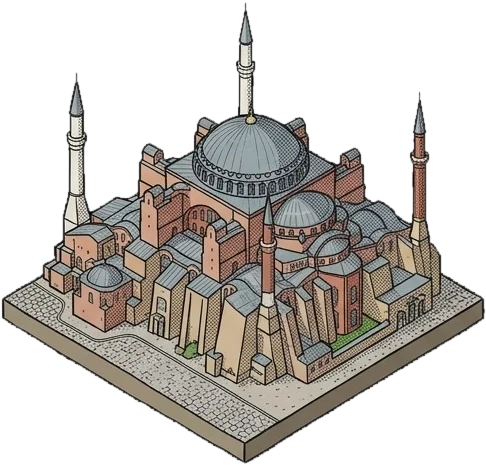
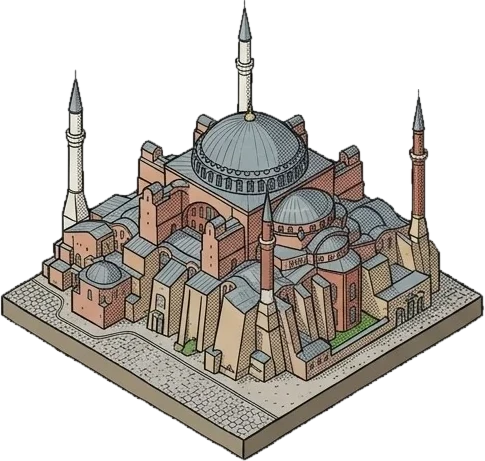
Simge yapı tabanları sağlam yöntemle yeniden ölçüldü (kırıntılar silindi, alt kenara iki doğru); saydamlaşma yanıp sönmez (hafıza + yumuşak geçiş); oyuncunun aracındaki sarı halka kaldırıldı
Claude-Session: https://claude.ai/code/session_01Kh33F5PeHx4QGU37XqQR3p

Changed region(s): [[0.0, 0.0, 0.9897, 1.0], [0.6495, 0.8807, 0.6804, 0.9111], [0.5567, 0.9414, 0.5876, 0.9718]]

diff --git a/src/render/iso.ts b/src/render/iso.ts
@@ -429,8 +429,9 @@ function drawCarSprite(e, t: number): boolean {
   ctx.beginPath();
   ctx.arc(x, y, TS * 0.46, 0, Math.PI * 2);
   ctx.fill();
-  if (e.isPlayer || G.assist === e) {
-    ctx.strokeStyle = G.assist === e ? '#ff922b' : G.role === 'taxi' ? '#ffc20e' : '#8e98ff';
+  // oyuncunun aracında halka yok (gereksiz duruyordu); yalnızca yardıma gelen ekip arkadaşı işaretlenir
+  if (G.assist === e) {
+    ctx.strokeStyle = '#ff922b';
     ctx.lineWidth = Math.max(2, TS * 0.09);
     ctx.globalAlpha = blink ? 0.35 : 1;
     ctx.beginPath();
@@ -596,6 +597,20 @@ function lmSub(m: Lm, r: number): Lm {
       if (e < err - 1e-6) ((best = n), (err = e));
     }
   return best;
+}
+/* saydamlaşma hafızası: kapatma bitince hemen geri gelmez (kısa süre bekler, yavaşça belirir);
+   böylece önündeki nokta bir girip bir çıkınca bina yanıp sönmez */
+const fadeMem = new WeakMap<object, { a: number; until: number; t: number }>();
+function fadeAlpha(o: object, hit: boolean, low: number, t: number) {
+  let st = fadeMem.get(o);
+  if (!st) fadeMem.set(o, (st = { a: 1, until: -1, t }));
+  if (hit) st.until = t + 0.9;
+  const target = t < st.until ? low : 1,
+    dt = clamp(t - st.t, 0, 0.1);
+  st.t = t;
+  st.a += (target - st.a) * Math.min(1, dt * 7);
+  if (Math.abs(st.a - target) < 0.01) st.a = target;
+  return st.a;
 }
 /** 3x3 doğrusal denklem (Cramer) */
 function solve3(M: number[][], v: number[]): number[] | null {
@@ -1313,11 +1328,9 @@ export function renderIso(t: number, dt: number) {
           objs.push([
             d,
             () => {
-              if (hide) {
-                screen();
-                ctx.globalAlpha = 0.32;
-              }
-              ctx.globalAlpha = hide ? 0.32 : 1;
+              const al = fadeAlpha(b, hide, 0.32, t);
+              if (al < 1) screen();
+              ctx.globalAlpha = al;
               drawCell(b, L.night);
               ctx.globalAlpha = 1;
             },
@@ -1335,7 +1348,7 @@ export function renderIso(t: number, dt: number) {
           objs.push([
             d,
             () => {
-              ctx.globalAlpha = hide ? 0.4 : 1;
+              ctx.globalAlpha = fadeAlpha(m, hide, 0.4, t);
               drawLandmark(m);
               ctx.globalAlpha = 1;
             },

diff --git a/scripts/olc_taban.py b/scripts/olc_taban.py
@@ -1,0 +1,72 @@
+# Simge yapı görsellerinin tabanını ölç: kırıntıları sil, alt kenar çizgisine RANSAC ile iki doğru oturt.
+# Kullanım: python3 scripts/olc_taban.py <kontrol-görselleri-klasörü> [--yaz]
+#   --yaz olmadan yalnızca kontrol sayfaları (tabanY*.png) üretir; --yaz ile görselleri temizler ve manifest’e yazar.
+import json, sys, os, random
+from PIL import Image, ImageDraw
+import numpy as np
+sys.path.insert(0, os.path.dirname(os.path.abspath(__file__))); from complib import label
+S = sys.argv[1]; WRITE = '--yaz' in sys.argv
+M = json.load(open('assets/manifest.json')); Y = M['landmarks_iso']['yapilar']
+def fitline(xs, ys, tol, it=600):
+    best=None; n=len(xs); random.seed(1)
+    for _ in range(it):
+        i,j=random.sample(range(n),2)
+        if xs[i]==xs[j]: continue
+        s=(ys[j]-ys[i])/(xs[j]-xs[i])
+        if not (0.25<abs(s)<1.0): continue
+        c=ys[i]-s*xs[i]; inl=np.abs(ys-(s*xs+c))<tol
+        # alt kenar: doğrunun altında kalan nokta az olsun (çıkıntılar üstte kalır)
+        sc=inl.sum()
+        if best is None or sc>best[0]: best=(sc,s,c,inl)
+    _,s,c,inl=best
+    A=np.vstack([xs[inl],np.ones(inl.sum())]).T; s,c=np.linalg.lstsq(A,ys[inl],rcond=None)[0]
+    inl=np.abs(ys-(s*xs+c))<tol
+    return s,c,inl
+tiles=[]
+# elle doğrulanmış eski ölçümler (uçurum, L biçimli meydan, çatı çıkıntısı: otomatik ölçüm yanılıyor)
+SKIP={'Atatürk Olimpiyat Stadı','Taksim Meydanı','Rumeli Hisarı','Topkapı Sarayı'}
+for n,L in Y.items():
+    if WRITE and n in SKIP: continue
+    im=Image.open(L['file']).convert('RGBA'); A=np.array(im)
+    s4=A[::4,::4,3]>40; lab,sizes=label(s4); big=max(sizes)
+    keep=np.zeros_like(s4)
+    for i,sz in enumerate(sizes,1):
+        if sz>=0.01*big: keep|=(lab==i)
+    k2=keep.copy()
+    for dy in (-1,0,1):
+        for dx in (-1,0,1): k2|=np.roll(np.roll(keep,dy,0),dx,1)
+    full=np.kron(k2,np.ones((4,4),bool))[:A.shape[0],:A.shape[1]]
+    A[~full,3]=0
+    a=A[:,:,3]>40; ys_,xs_=np.where(a); A=A[ys_.min():ys_.max()+1, xs_.min():xs_.max()+1]; a=A[:,:,3]>40
+    h,w=a.shape
+    cols=np.where(a.any(0))[0]
+    P=np.array([np.where(a[:,x])[0].max() for x in cols],float)
+    xb0=cols[int(np.argmax(P))]
+    tol=max(3,h*0.012)
+    # tepe noktasını bul: iki doğru, sol yarıda eğim +, sağ yarıda −
+    best=None
+    for frac in np.linspace(0.3,0.7,9):
+        xm=xs_m=cols.min()+(cols.max()-cols.min())*frac
+        Lm=cols<xm; Rm=~Lm
+        if Lm.sum()<10 or Rm.sum()<10: continue
+        sl,cl,il=fitline(cols[Lm].astype(float),P[Lm],tol); sr,cr,ir=fitline(cols[Rm].astype(float),P[Rm],tol)
+        if sl<=0 or sr>=0: continue
+        sc=il.sum()+ir.sum()
+        if best is None or sc>best[0]: best=(sc,sl,cl,il,Lm,sr,cr,ir,Rm)
+    sc,sl,cl,il,Lm,sr,cr,ir,Rm=best
+    xbx=(cr-cl)/(sl-sr); ybx=sl*xbx+cl
+    xl=cols[Lm][il].min(); xr=cols[Rm][ir].max()
+    tb=[int(xl),int(round(sl*xl+cl)),int(round(xbx)),int(round(ybx)),int(xr),int(round(sr*xr+cr))]
+    print(f"{n:34s} eski {L['taban']}  yeni {tb}  ({w}x{h}, iç {sc}/{len(cols)})")
+    if WRITE:
+        Image.fromarray(A).save(L['file'],quality=90); L['w'],L['h']=int(w),int(h); L['taban']=tb
+    bg=Image.new('RGBA',(w,h),(255,0,255,255)); bg.alpha_composite(Image.fromarray(A))
+    d=ImageDraw.Draw(bg); xl,yl,xb,yb,xr,yr=tb
+    d.line([(xl,yl),(xb,yb),(xr,yr),(xl+xr-xb,yl+yr-yb),(xl,yl)],fill='lime',width=4)
+    bg=bg.convert('RGB'); bg.thumbnail((300,300))
+    t=Image.new('RGB',(300,315),'white'); t.paste(bg,(0,15)); ImageDraw.Draw(t).text((2,1),n,fill='black'); tiles.append(t)
+for k in range(0,len(tiles),8):
+    sh=Image.new('RGB',(1200,630),'white')
+    for i,t in enumerate(tiles[k:k+8]): sh.paste(t,((i%4)*300,(i//4)*315))
+    sh.save(f'{S}/tabanY{k//8}.png')
+if WRITE: open('assets/manifest.json','w').write(json.dumps(M,ensure_ascii=False,indent=1)+'\n')

diff --git a/scripts/complib.py b/scripts/complib.py
@@ -1,0 +1,17 @@
+import numpy as np
+from collections import deque
+def label(mask):
+    H,W=mask.shape; lab=np.zeros((H,W),int); k=0; sizes=[]
+    for y in range(H):
+        for x in range(W):
+            if mask[y,x] and not lab[y,x]:
+                k+=1; q=deque([(y,x)]); lab[y,x]=k; n=0
+                while q:
+                    cy,cx=q.popleft(); n+=1
+                    for dy in (-1,0,1):
+                        for dx in (-1,0,1):
+                            ny,nx=cy+dy,cx+dx
+                            if 0<=ny<H and 0<=nx<W and mask[ny,nx] and not lab[ny,nx]:
+                                lab[ny,nx]=k; q.append((ny,nx))
+                sizes.append(n)
+    return lab,sizes
